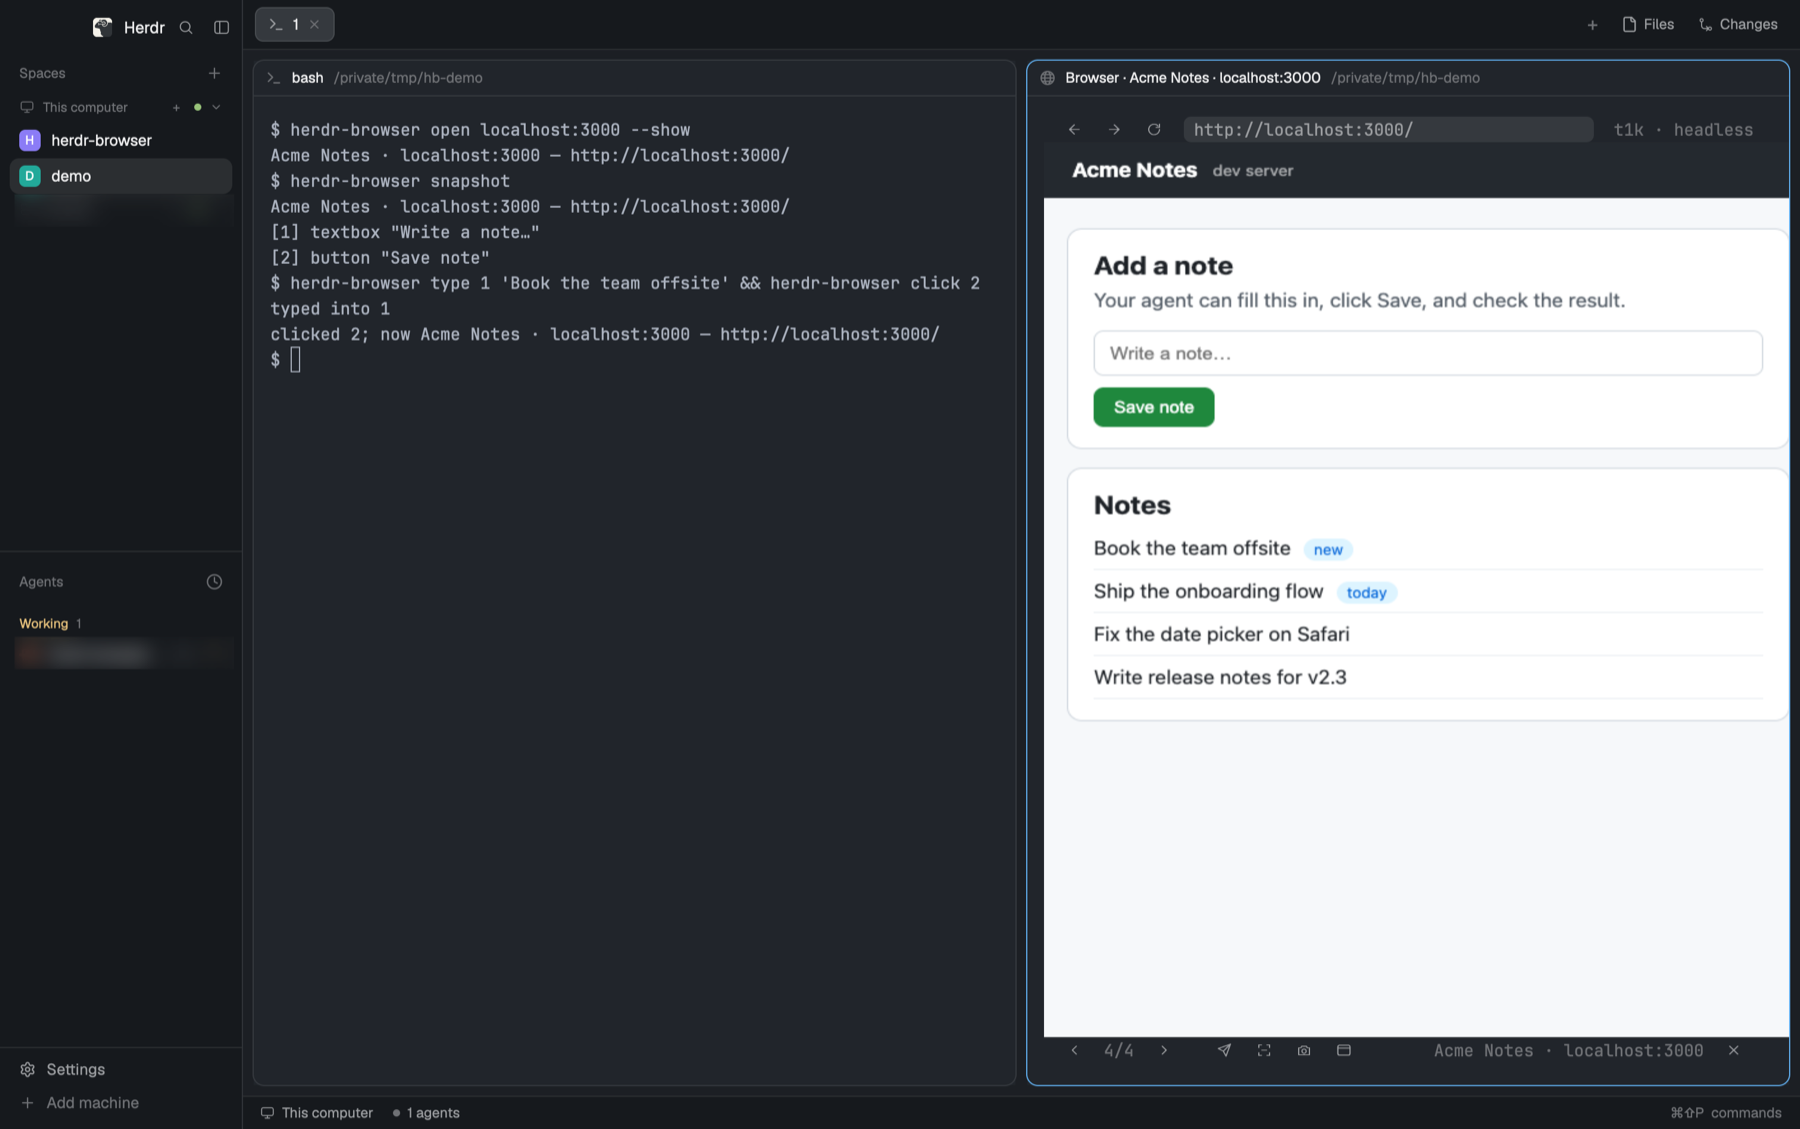
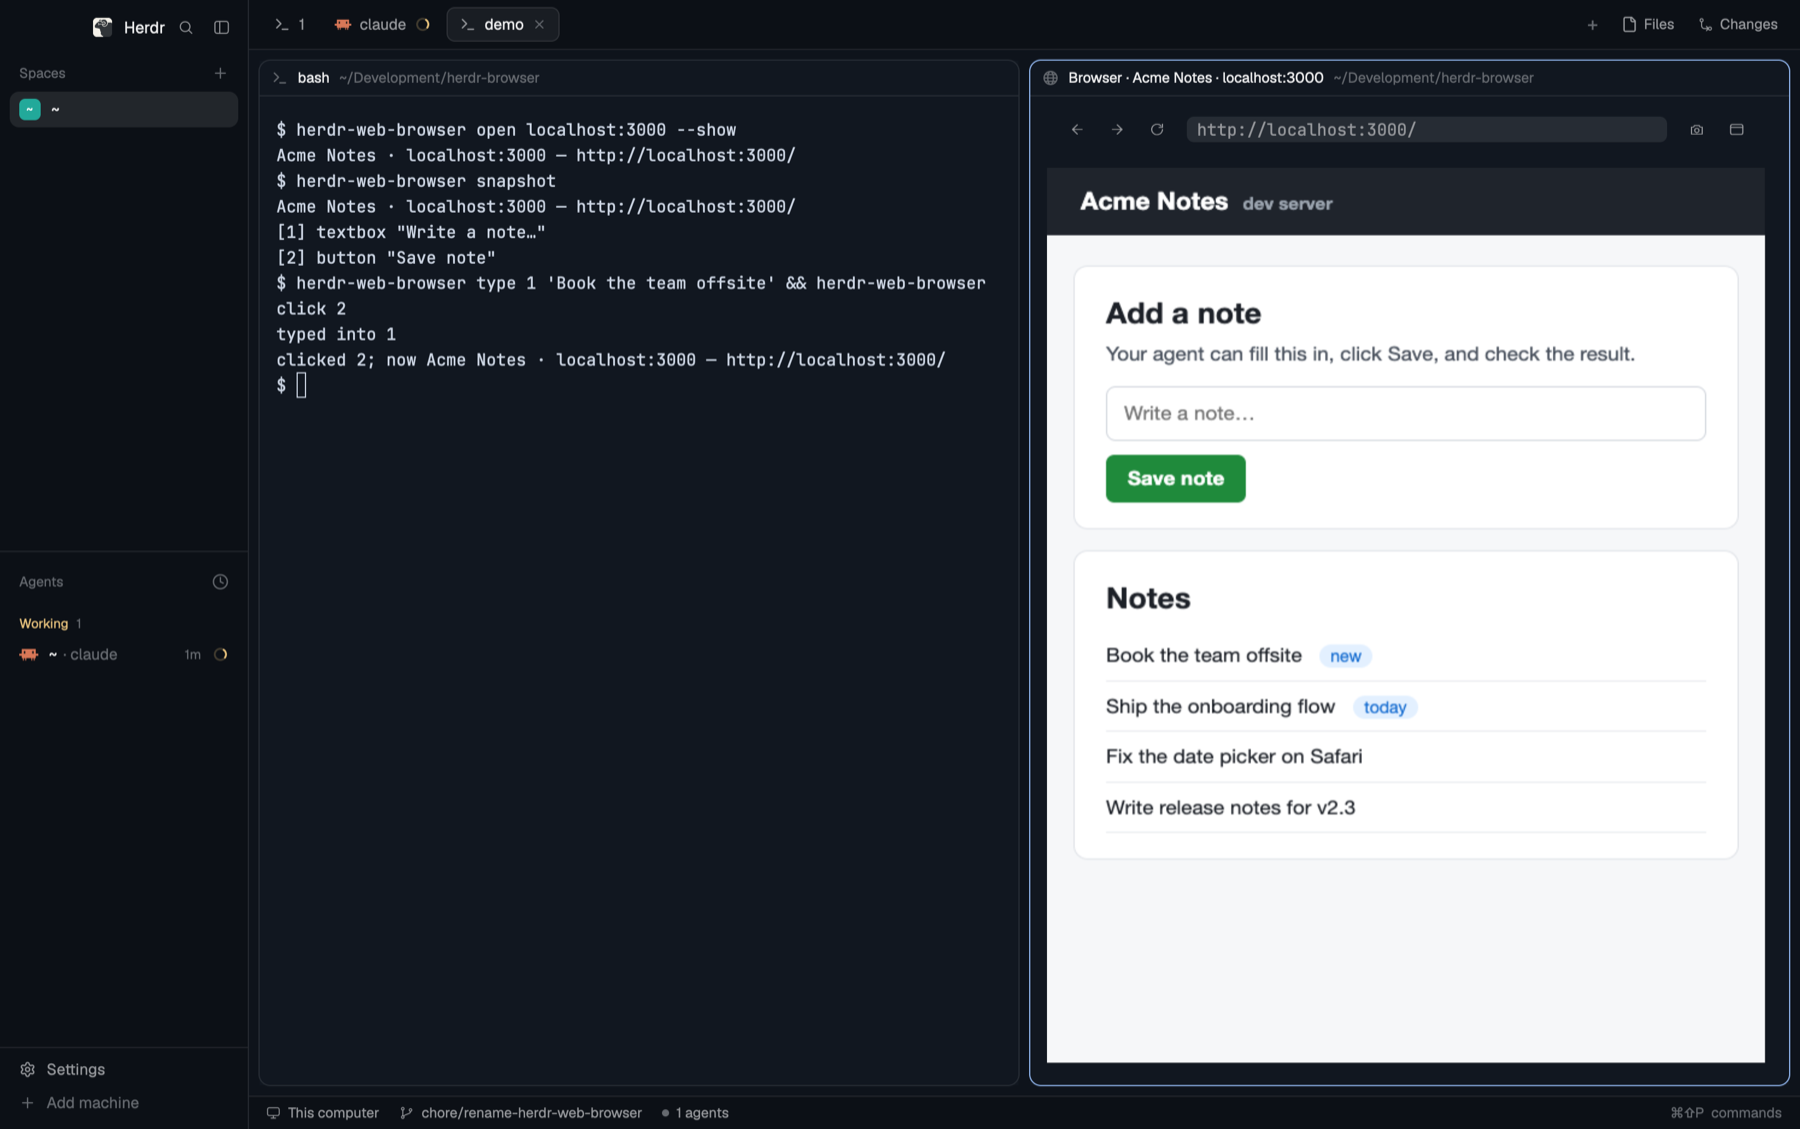
docs: refresh README and screenshots for the + menu and new view

diff --git a/README.md b/README.md
@@ -6,17 +6,21 @@ A web browser for [herdr](https://herdr.dev). It shows pages in a pane right nex
 
 ## Features
 
-- **Browse beside your agent.** A live page view sits in a herdr pane, with an address bar, back/forward/reload, tabs and a toolbar. Click, scroll and type as normal.
+- **Browse beside your agent.** A live page view sits in a herdr pane, with an address bar, back/forward/reload, and screenshot and window buttons. Click, scroll and type as normal.
+- **One click from the + menu.** In herdr desktop, **Browser** sits in the + menu next to your agents. It opens as a split beside the agent you were using, on your home page.
 - **Your agent can use it too.** Agents open pages, read text, click buttons, fill in forms and take screenshots, all with simple commands.
-- **Send anything to your agent in one click.** Send the page, the text you selected, or a screenshot.
+- **Send anything to your agent.** One click sends a screenshot. A shortcut or Chrome's right-click menu sends the page or the text you selected.
 - **Show the agent what you mean.** The agent can ask you to click an element on the page and gets back exactly which one you picked.
 - **Test your local site.** Open `localhost:3000` (or any dev server) and check changes as you make them.
 - **One tab per agent.** Several agents can browse at the same time without getting in each other's way.
-- **Inside herdr or in a window.** Run Chrome hidden and see it only in herdr, or switch to a normal browser window at any time. Your tabs stay open.
+- **Inside herdr or in a window.** Chrome runs hidden and you see it only in herdr. Click the window button when you want a normal browser window; it never pops up on its own. Your tabs stay open.
 - **Fits in.** Follows your herdr desktop theme and works in herdr desktop and the herdr terminal app.
 - **Private by default.** Uses its own Chrome profile, separate from your everyday browser, and only listens on your machine.
 
-![The live view](docs/screenshots/live-view.png)
+<p>
+  <img src="docs/screenshots/plus-menu.png" alt="Browser in herdr desktop's + menu" width="360">
+  <img src="docs/screenshots/live-view.png" alt="The live view" width="360">
+</p>
 
 ## What you need
 
@@ -42,7 +46,7 @@ Then set it up for the herdr you use.
 herdr-web-browser install-desktop
 ```
 
-This adds the browser's menu, agent picker and icon to herdr desktop. To open the menu with a shortcut, add this to `~/.config/herdr-app/keys.json` under `"global"`:
+This adds **Browser** to herdr desktop's + menu, plus the browser's own menu, agent picker and icon. To open the browser's menu with a shortcut, add this to `~/.config/herdr-app/keys.json` under `"global"`:
 
 ```json
 "cmd-shift-b": "mod.open:herdr-web-browser"
@@ -67,6 +71,7 @@ The agent runs `herdr-web-browser open localhost:3000 --show`, which loads the p
 | Where | How |
 |---|---|
 | Any terminal in herdr | `herdr-web-browser open <address> --show` |
+| herdr desktop | Click **+** at the top right and choose **Browser**. It opens beside your agent on your home page (Google unless you set `home_page`). |
 | herdr desktop | Press your menu shortcut (above) and choose **Open live view** |
 | herdr (terminal app) | Run the **Browser: open** action |
 
@@ -76,7 +81,7 @@ If the view is already open, running it again reuses it.
 
 1. Start your dev server as usual (for example `npm run dev`).
 2. Ask your agent to open it, or run `herdr-web-browser open localhost:3000 --show`.
-3. Edit your code, then press **Reload** in the toolbar. You can also ask the agent to check the page for you.
+3. Edit your code, then press **Reload** (↻) next to the address bar. You can also ask the agent to check the page for you.
 
 Addresses on your own machine or network (`localhost`, `127.0.0.1`, `192.168.x.x`, `*.local`) open with `http://`. Everything else uses `https://`. Type the full address to choose yourself.
 
@@ -91,15 +96,13 @@ Use herdr-web-browser to view and test web pages. Run `herdr-web-browser agent-h
 | Control | What it does |
 |---|---|
 | ← → ↻ | Back, forward, reload |
-| Address bar | Click it, type an address, press Enter. Esc cancels. |
-| ‹ › | Previous / next tab. The agent beside the view uses the tab you pick. |
-| Send | Send the page's text to the agent |
-| Selection | Send the text you've selected |
-| Camera | Send a screenshot |
+| Address bar | Click it, type an address, press Enter. Esc cancels. Double-click selects a word, triple-click selects everything, and drag or Shift+arrows select part of it. |
+| Camera | Send a screenshot to the agent |
 | Window | Switch between a hidden browser (shown only in herdr) and a normal Chrome window |
-| ✕ | Close the view (the browser keeps running) |
 
-Hover over a button to see its name. Keyboard shortcuts: `Ctrl-L` address bar, `Ctrl-B`/`Ctrl-F` back/forward, `Ctrl-R` reload, `Ctrl-N`/`Ctrl-P` next/previous tab, `Ctrl-G` send page, `Ctrl-S` send selection, `Ctrl-X` screenshot, `Ctrl-E` window mode, `Ctrl-Q` close.
+Hover over a button and its name shows in the address bar, which also shows messages such as "sent screenshot" for a few seconds.
+
+Keyboard shortcuts: `Ctrl-L` address bar, `Ctrl-B`/`Ctrl-F` back/forward, `Ctrl-R` reload, `Ctrl-N`/`Ctrl-P` next/previous tab (the agent beside the view uses the tab you pick), `Ctrl-G` send page, `Ctrl-S` send selection, `Ctrl-X` screenshot, `Ctrl-E` window mode, `Ctrl-Q` close the view (the browser keeps running).
 
 Inside Chrome itself, right-click to send a selection, page, link or screenshot to your agent.
 
@@ -119,6 +122,7 @@ Optional. Put them in `~/.config/herdr/plugins/config/herdr-web-browser/config.t
 default_agent = "reviewer"    # agent to send to when there's a choice
 chrome_path = "/Applications/Chromium.app/Contents/MacOS/Chromium"   # if it can't find your browser
 max_chars = 20000             # longest page text sent to an agent
+home_page = "https://www.google.com"   # what a new Browser from the + menu opens on
 view_renderer = "blocks"      # if the view stays blank in your terminal
 cell_aspect = 2.6             # if the page looks stretched
 ```
@@ -128,7 +132,7 @@ cell_aspect = 2.6             # if the page looks stretched
 - **The view is blank.** Your terminal may not support images. Set `view_renderer = "blocks"` for a low-resolution fallback, or use herdr desktop, Ghostty, kitty or WezTerm.
 - **The page looks stretched.** Set `cell_aspect` to your terminal's cell height divided by its width (about 2.6 for herdr desktop's default font).
 - **"No Chrome found".** Set `chrome_path`.
-- **Want a real window?** Click **Window**, or run `herdr-web-browser mode headed`.
+- **Want a real window?** Click the window button, or run `herdr-web-browser mode headed`. Chrome only shows a window when you ask; anything that starts the browser by itself starts it hidden.
 
 ## For agents
 
@@ -159,6 +163,7 @@ herdr-web-browser pick --prompt "Which row?"   # the user clicks something; you 
 cargo test                     # unit tests
 cargo test -- --ignored        # also drives a real headless Chrome
 python3 tests/view_e2e.py      # clicks every control in the live view
+E2E_WINDOW=1 python3 tests/view_e2e.py   # also the window button (opens a real Chrome window)
 ```
 
 ## License
